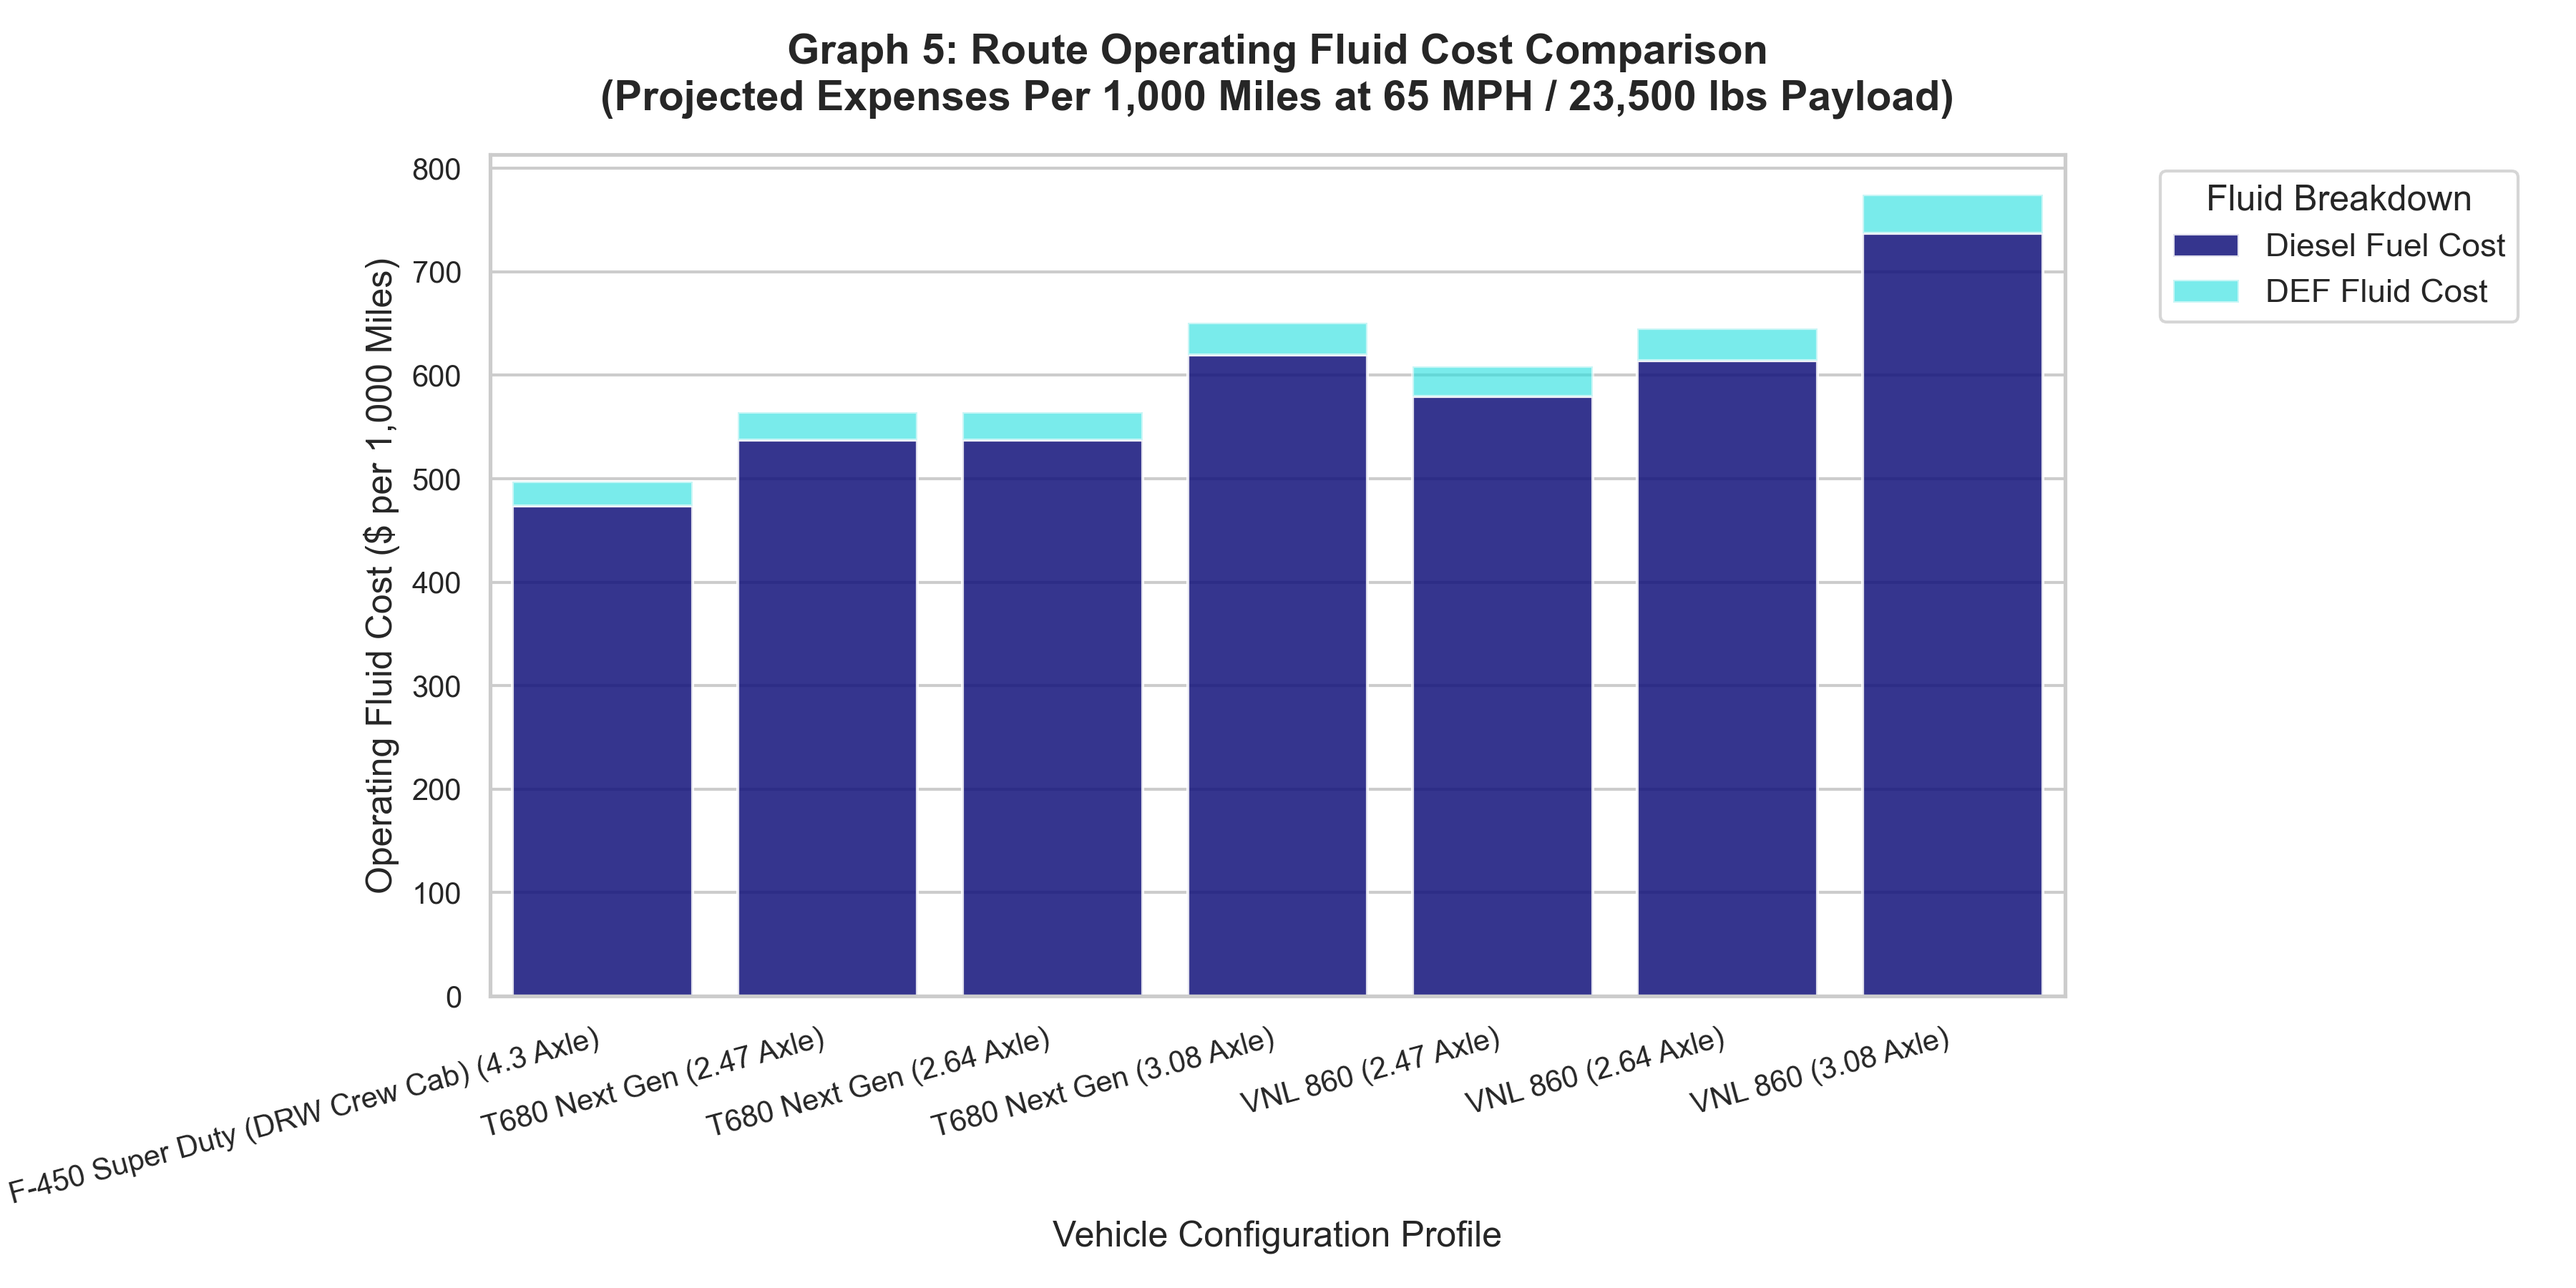
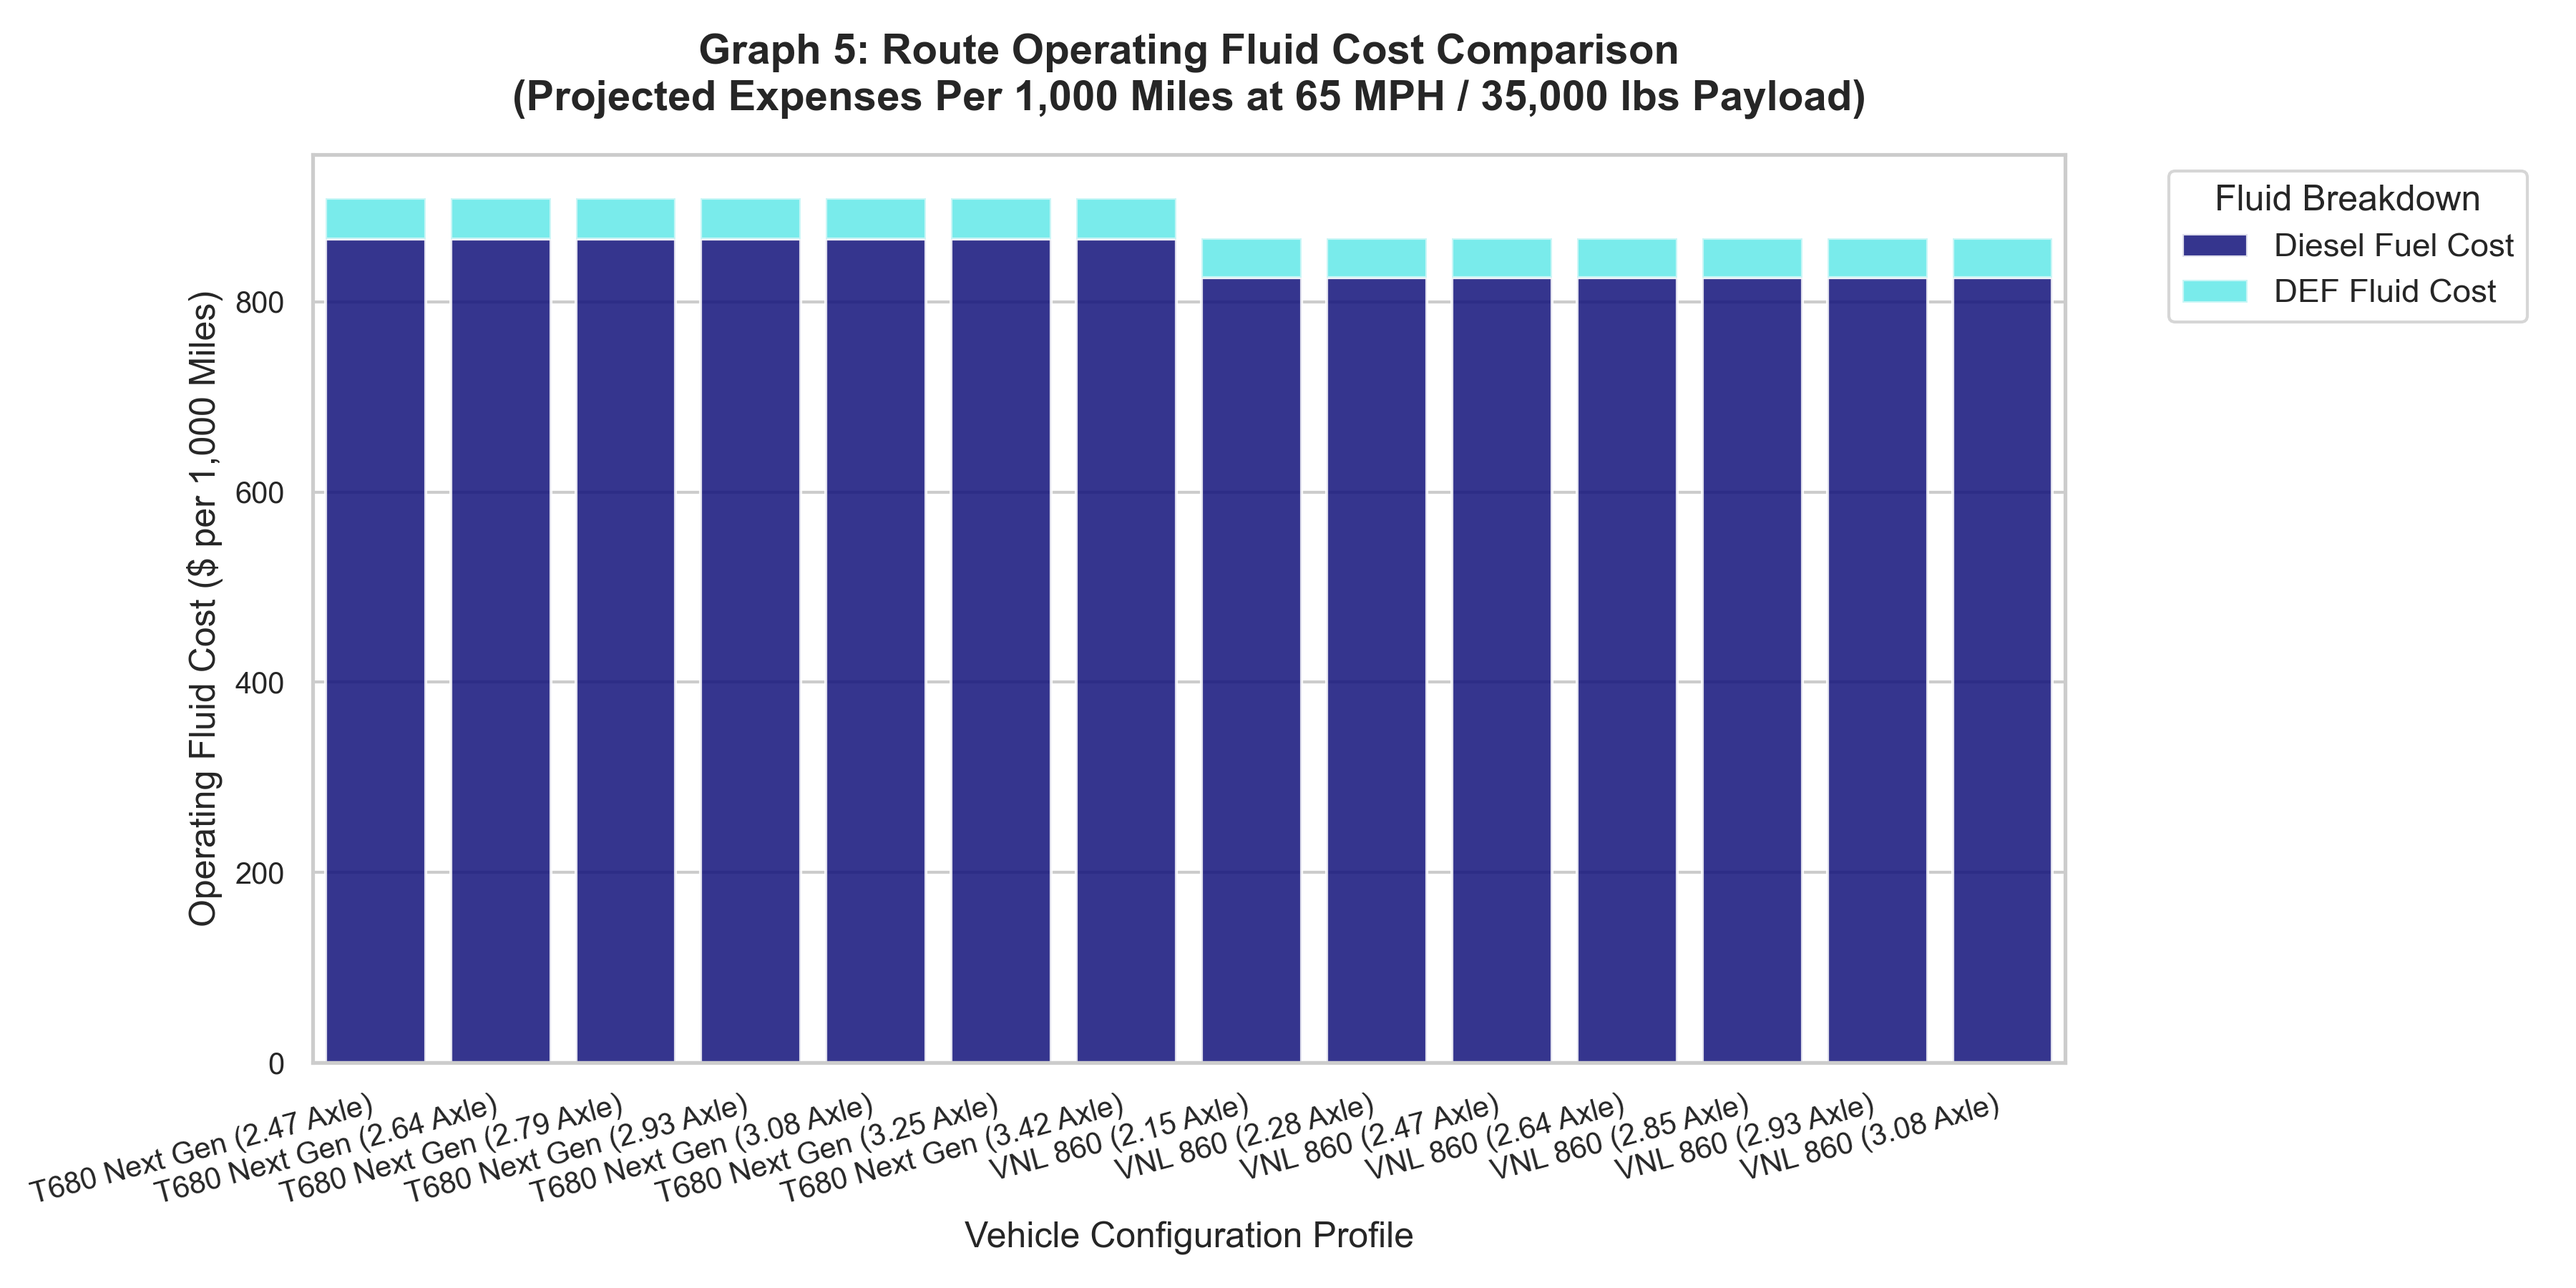
Cleaning up the local/remote repo

diff --git a/HDTSolver.py b/HDTSolver.py
@@ -35,8 +35,9 @@ if __name__ == '__main__':
         'engine': ['ALL_VALID'], 
         'transmission': ['ALL_VALID'], 
         'axle_ratio': ['ALL_VALID'],
-        'trailer_payload_lbs':[23500], 
-        'route_corridor': ['I95_Fuel_Slasher', 'I40_Midwest_Rhythm', 'I70_Mountain_Conqueror']
+        'trailer_payload_lbs':[23500, 35000], 
+       # 'route_corridor': ['I95_Fuel_Slasher', 'I40_Midwest_Rhythm', 'I70_Mountain_Conqueror']
+        'route_corridor': ['I40_Midwest_Rhythm']
     }
 
     print("--- PIPELINE CORE TRIGGERED: SWEEPING EXCEL CONFIGURATIONS ---")
